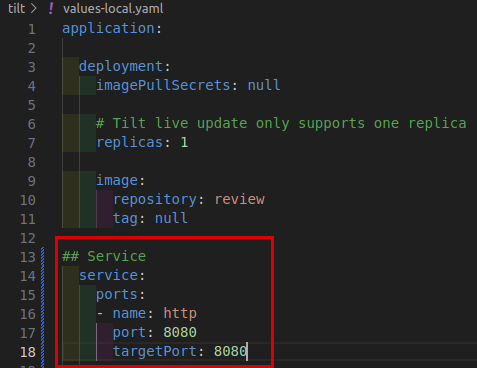
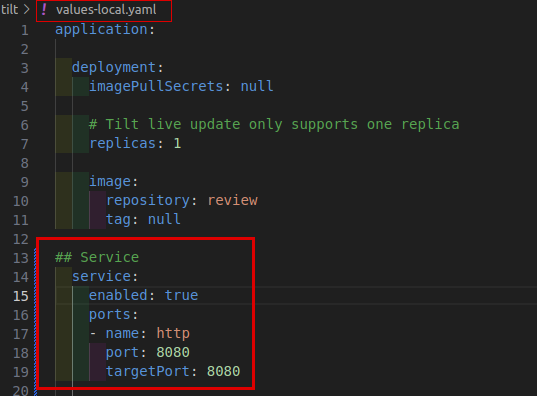
Updates

diff --git a/content/for-developers/tutorials/inner-loop/05-expose-app/expose-app.md b/content/for-developers/tutorials/inner-loop/05-expose-app/expose-app.md
@@ -33,17 +33,21 @@ To create a service:
           targetPort: 8080
     ```
 
+    It should look like this:
+
+    ![svc-values](images/svc-values.png)
+
     a) Service is `enabled: true`, which means the service resource will be created on the OpenShift cluster when you tilt up your application.
 
     b) `port:` This section defines the port configuration for the service resource.
 
     c) `name: http`: We have seen in the route `targetPort: http` was given which was pointing to this service port named `http`. `port: 8080` is the port of the service itself. `targetPort: 8080` is the pod/container port of the application.
 
-> You can change or add any configuration for the service. To see more configurations [click](https://docs.openshift.com/container-platform/3.11/architecture/core_concepts/pods_and_services.html#services)
+    > You can change or add any configuration for the service. To see more configurations [click](https://docs.openshift.com/container-platform/3.11/architecture/core_concepts/pods_and_services.html#services)
 
-1. Run `tilt up` in your directory containing updated `tilt/values-local`.
+2. Run `tilt up` in your directory containing updated `tilt/values-local`.
 
-1. Let's go to the services under networking section in your namespace
+3. Let's go to the services under networking section in your namespace
 
       ![find svc](images/svc.png)
 
@@ -62,6 +66,10 @@ OpenShift provides a routing mechanism called "routes" that allows you to expose
       port:
         targetPort: http
     ```
+
+    It should look like this:
+
+    ![route-values](images/route-values.png)
 
     a) Route is `enabled: true`, which means the route resource will be created when you tilt up.
 
